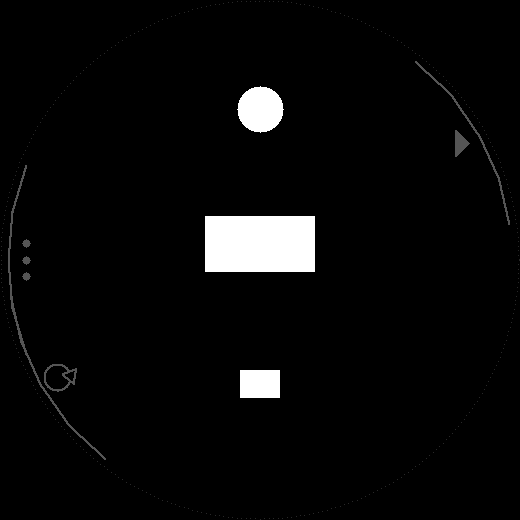
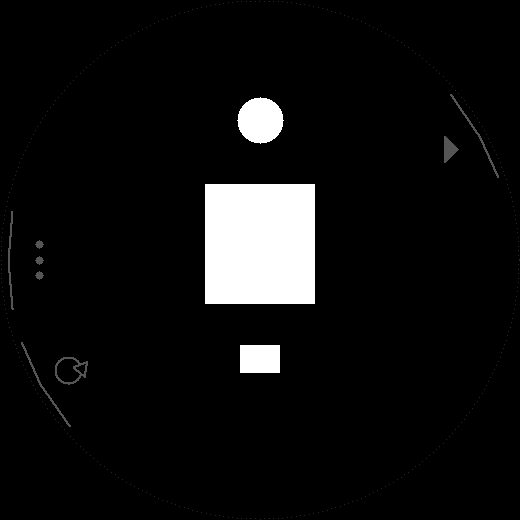
Equal center gaps via font metrics; shorter edge arcs; glyphs slightly inward
Dot/ticks positions are computed from getFontHeight(HOT/MEDIUM) plus a
fixed 8% gap, so dot->chrono and chrono->ticks margins are equal by
construction. Edge arcs halved to ~22deg each. Hints moved to 85% of
radius (still aligned with the button angles), arcs stay at 97%.
All dist/*.prg rebuilt.

diff --git a/tools/preview.py b/tools/preview.py
@@ -69,22 +69,28 @@ def render(path, W, running):
     white = (255, 255, 255, 255)
     gray = (85, 85, 85, 255)
     green = (0, 255, 0, 255)
-    disc(cx, int(H * 21 / 100), int(H * 45 / 1000), green if running else white)
-    rect(cx - 55, int(H * 47 / 100) - 28, 110, 56, white)
-    rect(cx - 20, int(H * 74 / 100) - 14, 40, 28, white)
+    timeY = int(H * 47 / 100)
+    th, mh = 120, 28
+    dotR = int(H * 45 / 1000)
+    gap = int(H * 8 / 100)
+    dotY = timeY - th // 2 - gap - dotR
+    ticksY = timeY + th // 2 + gap + mh // 2
+    disc(cx, dotY, dotR, green if running else white)
+    rect(cx - 55, timeY - th // 2, 110, th, white)
+    rect(cx - 20, ticksY - mh // 2, 40, mh, white)
 
     # Button hints at the real FR255 button angles: START ~ -30deg,
     # UP 180deg (dots), DOWN ~150deg (reset circle+arrow, drawn as
     # line segments). Same geometry as drawButtonHints().
-    d = int(r * 0.90)
+    d = int(r * 0.85)
     gs = int(W * 0.05)
 
     re = int(r * 0.97)
     for za in (-30, 150, 180):
         prev = hint_point(za - 22) if False else None
-        px_, py_ = int(cx + re * math.cos(math.radians(za - 22))), int(cy + re * math.sin(math.radians(za - 22)))
-        for i in range(1, 5):
-            a = za - 22 + i * 11
+        px_, py_ = int(cx + re * math.cos(math.radians(za - 11))), int(cy + re * math.sin(math.radians(za - 11)))
+        for i in range(1, 3):
+            a = za - 11 + i * 11
             cxp = int(cx + re * math.cos(math.radians(a)))
             cyp = int(cy + re * math.sin(math.radians(a)))
             line(px_, py_, cxp, cyp, gray, 2)
